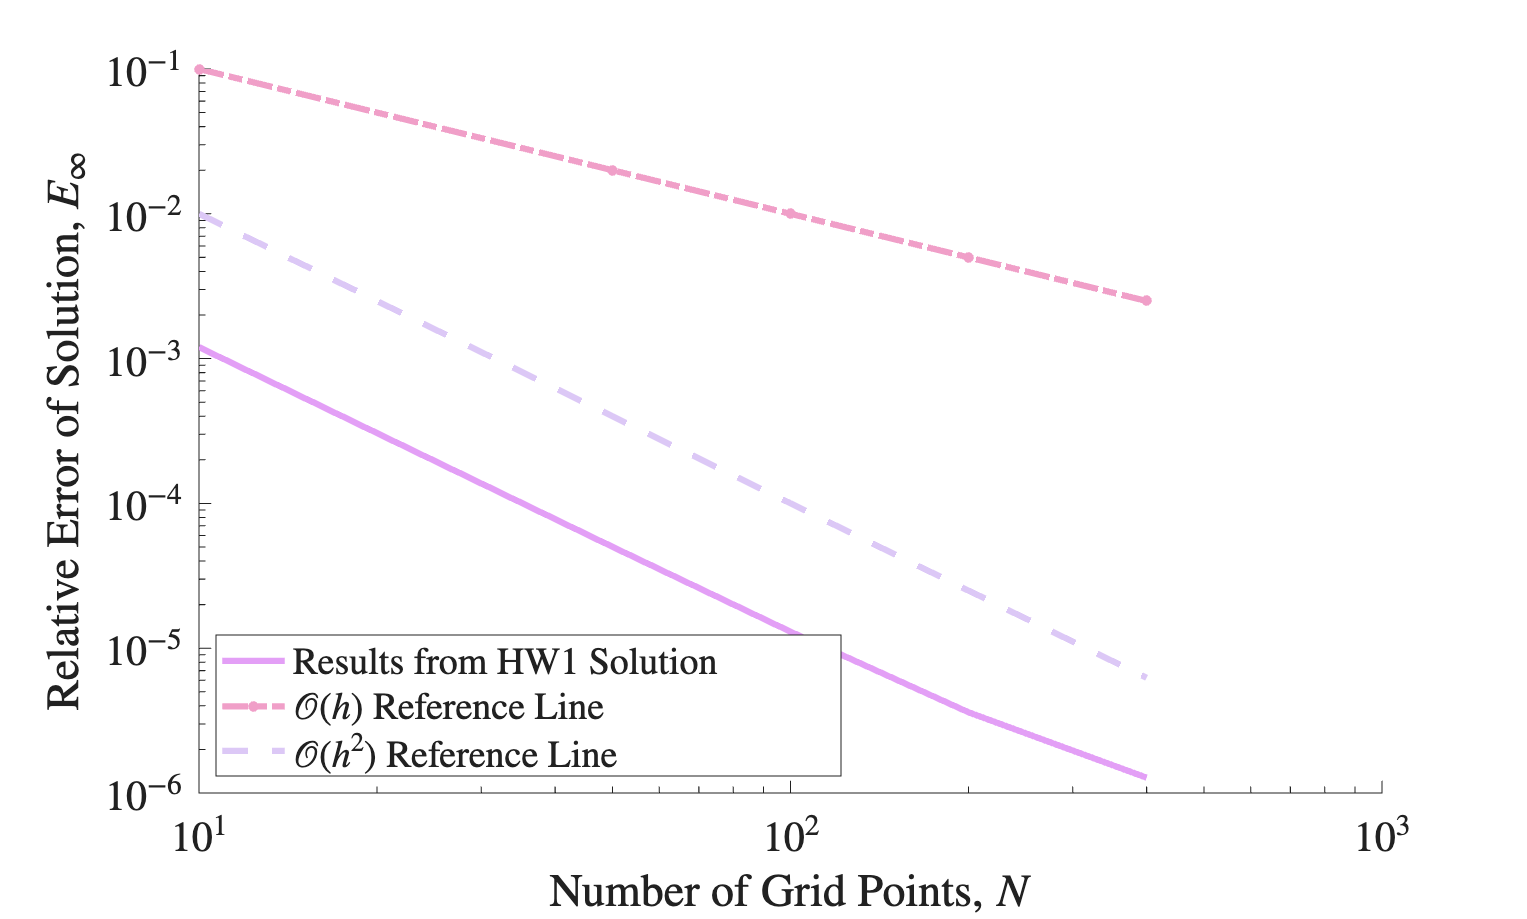
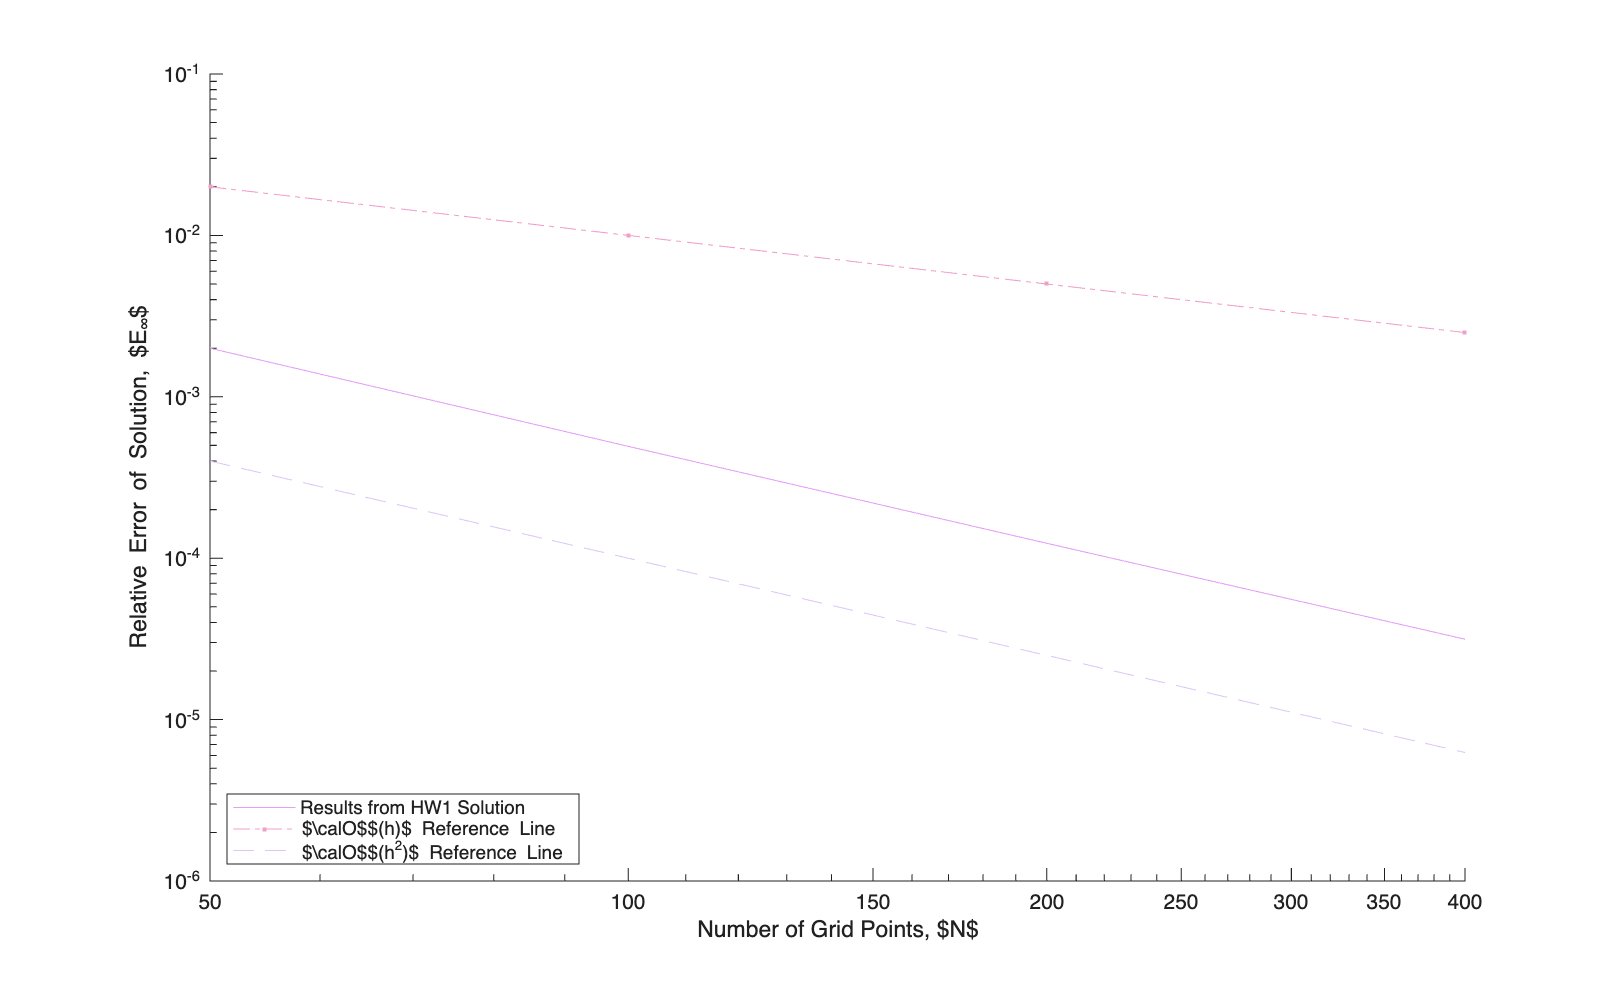
Got k added finally

diff --git a/HW2/HW2.cpp b/HW2/HW2.cpp
@@ -153,13 +153,32 @@ int main()
 	double as = k1*dx/dy;
 	double ap = ae + aw + an + as;
 
-	int col;
+	double kmp;
+	double kme;
+	double kmw;
+	double kmn;
+	double kms;
+
+
 
 	for ( int i = 1; i <= Nx; i++ ) 
 	{		
 		for ( int j = 1; j <= Ny; j++ )
 			{
 			row = Nx2*j + i;
+			
+			kme = var_therm_cond(xf[i], y[j]);
+			kmw = var_therm_cond(xf[i - 1], y[j]);
+			kmn = var_therm_cond(x[i], yf[j]);
+			kms = var_therm_cond(x[i], yf[j - 1]);
+			kmp = var_therm_cond(x[i], y[j]);
+
+			ae = kme*k1*dy/dx;
+			aw = kmw*k1*dy/dx;
+			an = kmn*k1*dx/dy;
+			as = kms*k1*dx/dy;
+			ap = ae + aw + an + as;
+
 
 			//these will be all the points not on the boundaries.
 			ROW.push_back(row);
@@ -170,6 +189,7 @@ int main()
 			COL.push_back(row + 1);
 			VAL.push_back(-ae);
 
+	
 			ROW.push_back(row);
 			COL.push_back(row - 1);
 			VAL.push_back(-aw);
@@ -181,6 +201,7 @@ int main()
 			ROW.push_back(row);
 			COL.push_back(row - Nx2);
 			VAL.push_back(-as);
+			
 		}
 				
 	}
@@ -221,7 +242,7 @@ int main()
 
 		// north 
 		row = (Ny + 1)*Nx2 + i;
-		B[row] = std::cos(x[i])*std::cos(Ly);
+		B[row] = std::cos(x[i])*std::cos(Ly); // *(1 + 0.5*std::sin(x[i])*std::sin(Ly));
 	
 	}
 
@@ -234,7 +255,7 @@ int main()
 	
 		// east
 		row = Nx2*(j + 1) - 1; //don't forget the first row corner is meh
-		B[row] = std::cos(Lx)*std::cos(y[j]);
+		B[row] = std::cos(Lx)*std::cos(y[j]);// *(1 + 0.5*std::sin(Lx)*std::sin(y[j]));
 		
 	}
 
@@ -244,7 +265,7 @@ int main()
 		for (int j = 1; j <= Ny; j++)
 		{
 			row = Nx2*j + i;
-			B[row] =dx*dy*2*std::cos(x[i])*std::cos(y[j]);
+			B[row] =dx*dy*2*std::cos(x[i])*std::cos(y[j])*(1 + std::sin(x[i])*std::sin(y[j]));
 		}
 	}
 	

diff --git a/HW2/data.m b/HW2/data.m
@@ -3,8 +3,23 @@
 % 200 5.0069e-07
 % 500 9.9997e-07
 
-N = [10 50 100 200 400];
-Err_inf = [0.0012 5.0149e-05 1.2997e-05 3.6082e-06 1.2758e-06];
+
+% ADding km 
+% 50 0.0020
+% 100 4.9312e-04
+% 200 1.2375e-04
+% 400 3.1494e-05
+
+%% BEFORE KM
+% N = [50 100 200 400];
+% Err_inf = [5.0149e-05 1.2997e-05 3.6082e-06 1.2758e-06];
+
+%% WITH KM
+N = [50 100 200 400];
+Err_inf = [0.0020 4.9312e-04 1.2375e-04 3.1494e-05];
+% 100 4.9312e-04
+% 200 1.2375e-04
+% 400 3.1494e-05
 
 f = figure(1);
 theme(f,"light");
@@ -13,9 +28,9 @@ plot(N, (Err_inf), 'Color',[227/255,159/255,246/255])
 plot(N, 1./N, '.-.', 'Color',[240/255,159/255,200/255])
 plot(N, 1./(N.^2), '--', 'Color',[220/255,200/255,246/255])
 set(gca,'YScale','log','XScale','log')
-legend('Results from HW1 Solution', '$\cal{O}$$(h)$ Reference Line', '$\cal{O}$$(h^2)$ Reference Line', 'Location','southwest')
+legend('Results from HW2 Solution', '$\cal{O}$$(h)$ Reference Line', '$\cal{O}$$(h^2)$ Reference Line', 'Location','northeast')
 ylabel("Relative Error of Solution, $E_{\infty}$")
 xlabel("Number of Grid Points, $N$")
 hold off
 
-saveas(f, "HW2_Error_Plot.png", 'png')
+saveas(f, "HW2_Error_Plot_After_Km.png", 'png')

diff --git a/HW2/vis_HW2.m b/HW2/vis_HW2.m
@@ -1,4 +1,3 @@
-clc
 clear
 
 
@@ -13,8 +12,11 @@ c = readmatrix("c.dat");
 Nx = length(x);
 Ny = length(y);
 
+Nx2 = Nx + 2; 
+Ny2 = Ny + 2;
 
-c_num = reshape(c, Ny, Nx);
+
+c_num = reshape(c, Ny, Nx)';
 c_mat = zeros(Ny,Nx);
 
 for i = 0:1:(Ny - 1)
@@ -32,19 +34,35 @@ end
 
 
 %%
-c_num_NB = c_num(2:(Ny - 1), 2:(Nx - 1));
-c_an_NB = c_an(2:(Ny - 1), 2:(Nx - 1));
+c_num_NB = c_num(2:Ny - 1, 2:Nx - 1);
+c_an_NB = c_an(2:Ny - 1, 2:Nx - 1);
+X_NB = X(2:Ny - 1, 2:Nx - 1);
+Y_NB = Y(2:Ny - 1, 2:Nx - 1);
+
 
 figure(1)
-pcolor(c_num_NB)
+surf(X_NB,Y_NB,c_num_NB)
 title("Numerical")
+xlabel("x")
+ylabel("y")
+zlim([-1,1])
 colorbar()
 
 figure(2)
-pcolor(c_an_NB)
+surf(X_NB,Y_NB,c_an_NB)
+zlim([-1,1])
+xlabel("x")
+ylabel("y")
 title("analytical")
 colorbar()
 
+%%
+diff_C = abs(c_num_NB - c_an_NB);
+figure(3)
+surf(X_NB,Y_NB, diff_C)
+xlabel("x")
+ylabel("y")
+%%
 
 err = max(max(abs(c_num_NB - c_an_NB)))/max(max(abs(c_an_NB)))
 

diff --git a/HW2/funcs_HW2.cpp b/HW2/funcs_HW2.cpp
@@ -36,3 +36,11 @@ void read_inputs(std::map<std::string, double>& variables)
 
 	inputfile.close();
 }
+
+double var_therm_cond(double x, double y){
+
+	double km; 
+	km = 1 + 0.5*std::sin(x)*std::sin(y);
+	
+	return km;
+}

diff --git a/HW2/HW2.h b/HW2/HW2.h
@@ -6,4 +6,8 @@
 
 void read_inputs(std::map<std::string, double>& variables);
 
+double var_therm_cond(double x, double y);
+
+double fuel_therm_cond(double x, double y);
+
 #endif
